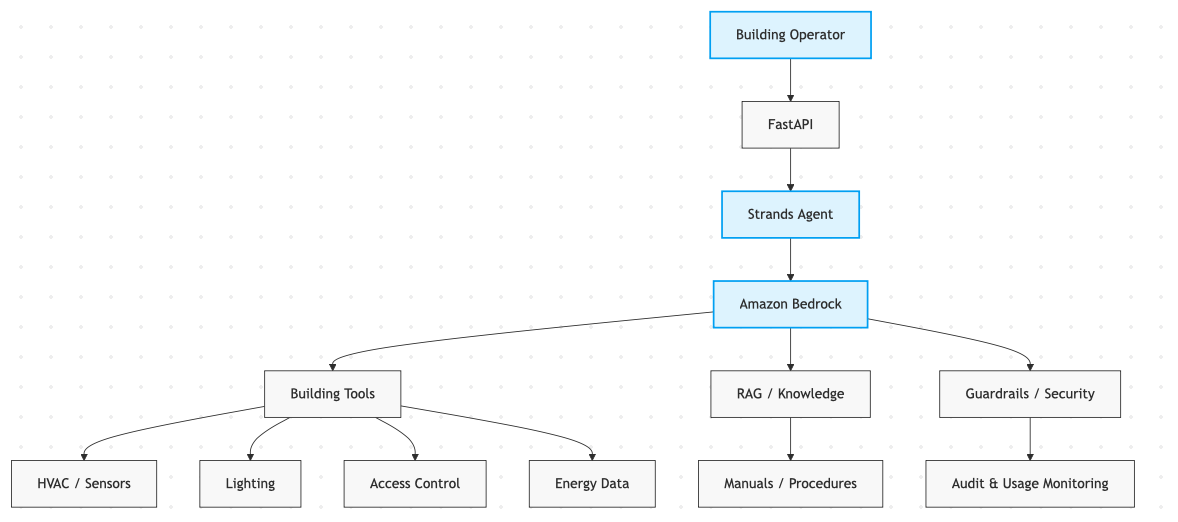
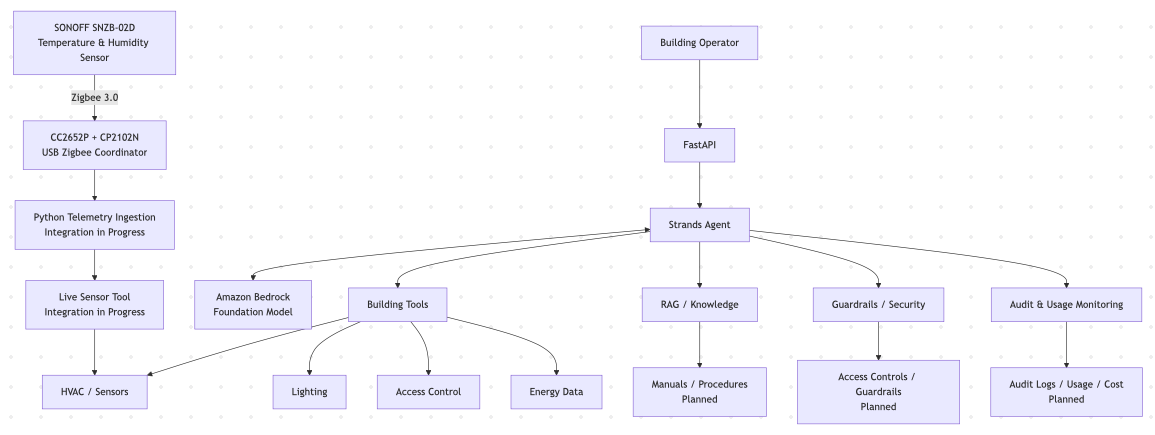
Update architecture for physical sensor integration
Add SNZB-02D sensor, CC2652P Zigbee coordinator, Python telemetry ingestion, and live sensor tool path to the architecture diagram. Also update README author details.

diff --git a/README.md b/README.md
@@ -316,3 +316,12 @@ The next milestone is integrating live temperature and humidity telemetry from a
 The resulting telemetry will be exposed to the Strands agent as an operational tool, allowing the foundation model running through Amazon Bedrock to reason over real environmental measurements.
 
 Subsequent milestones will expand the platform with alarm, energy, maintenance, access-control, RAG, security, observability, evaluation, and AI-governance capabilities.
+
+## Author
+
+**Alem Mekru**
+
+AI Engineer | MSc Artificial Intelligence | Doctoral Researcher in Applied Artificial Intelligence
+
+- GitHub: https://github.com/AlemMekru
+- LinkedIn: https://www.linkedin.com/in/alemmekru/
